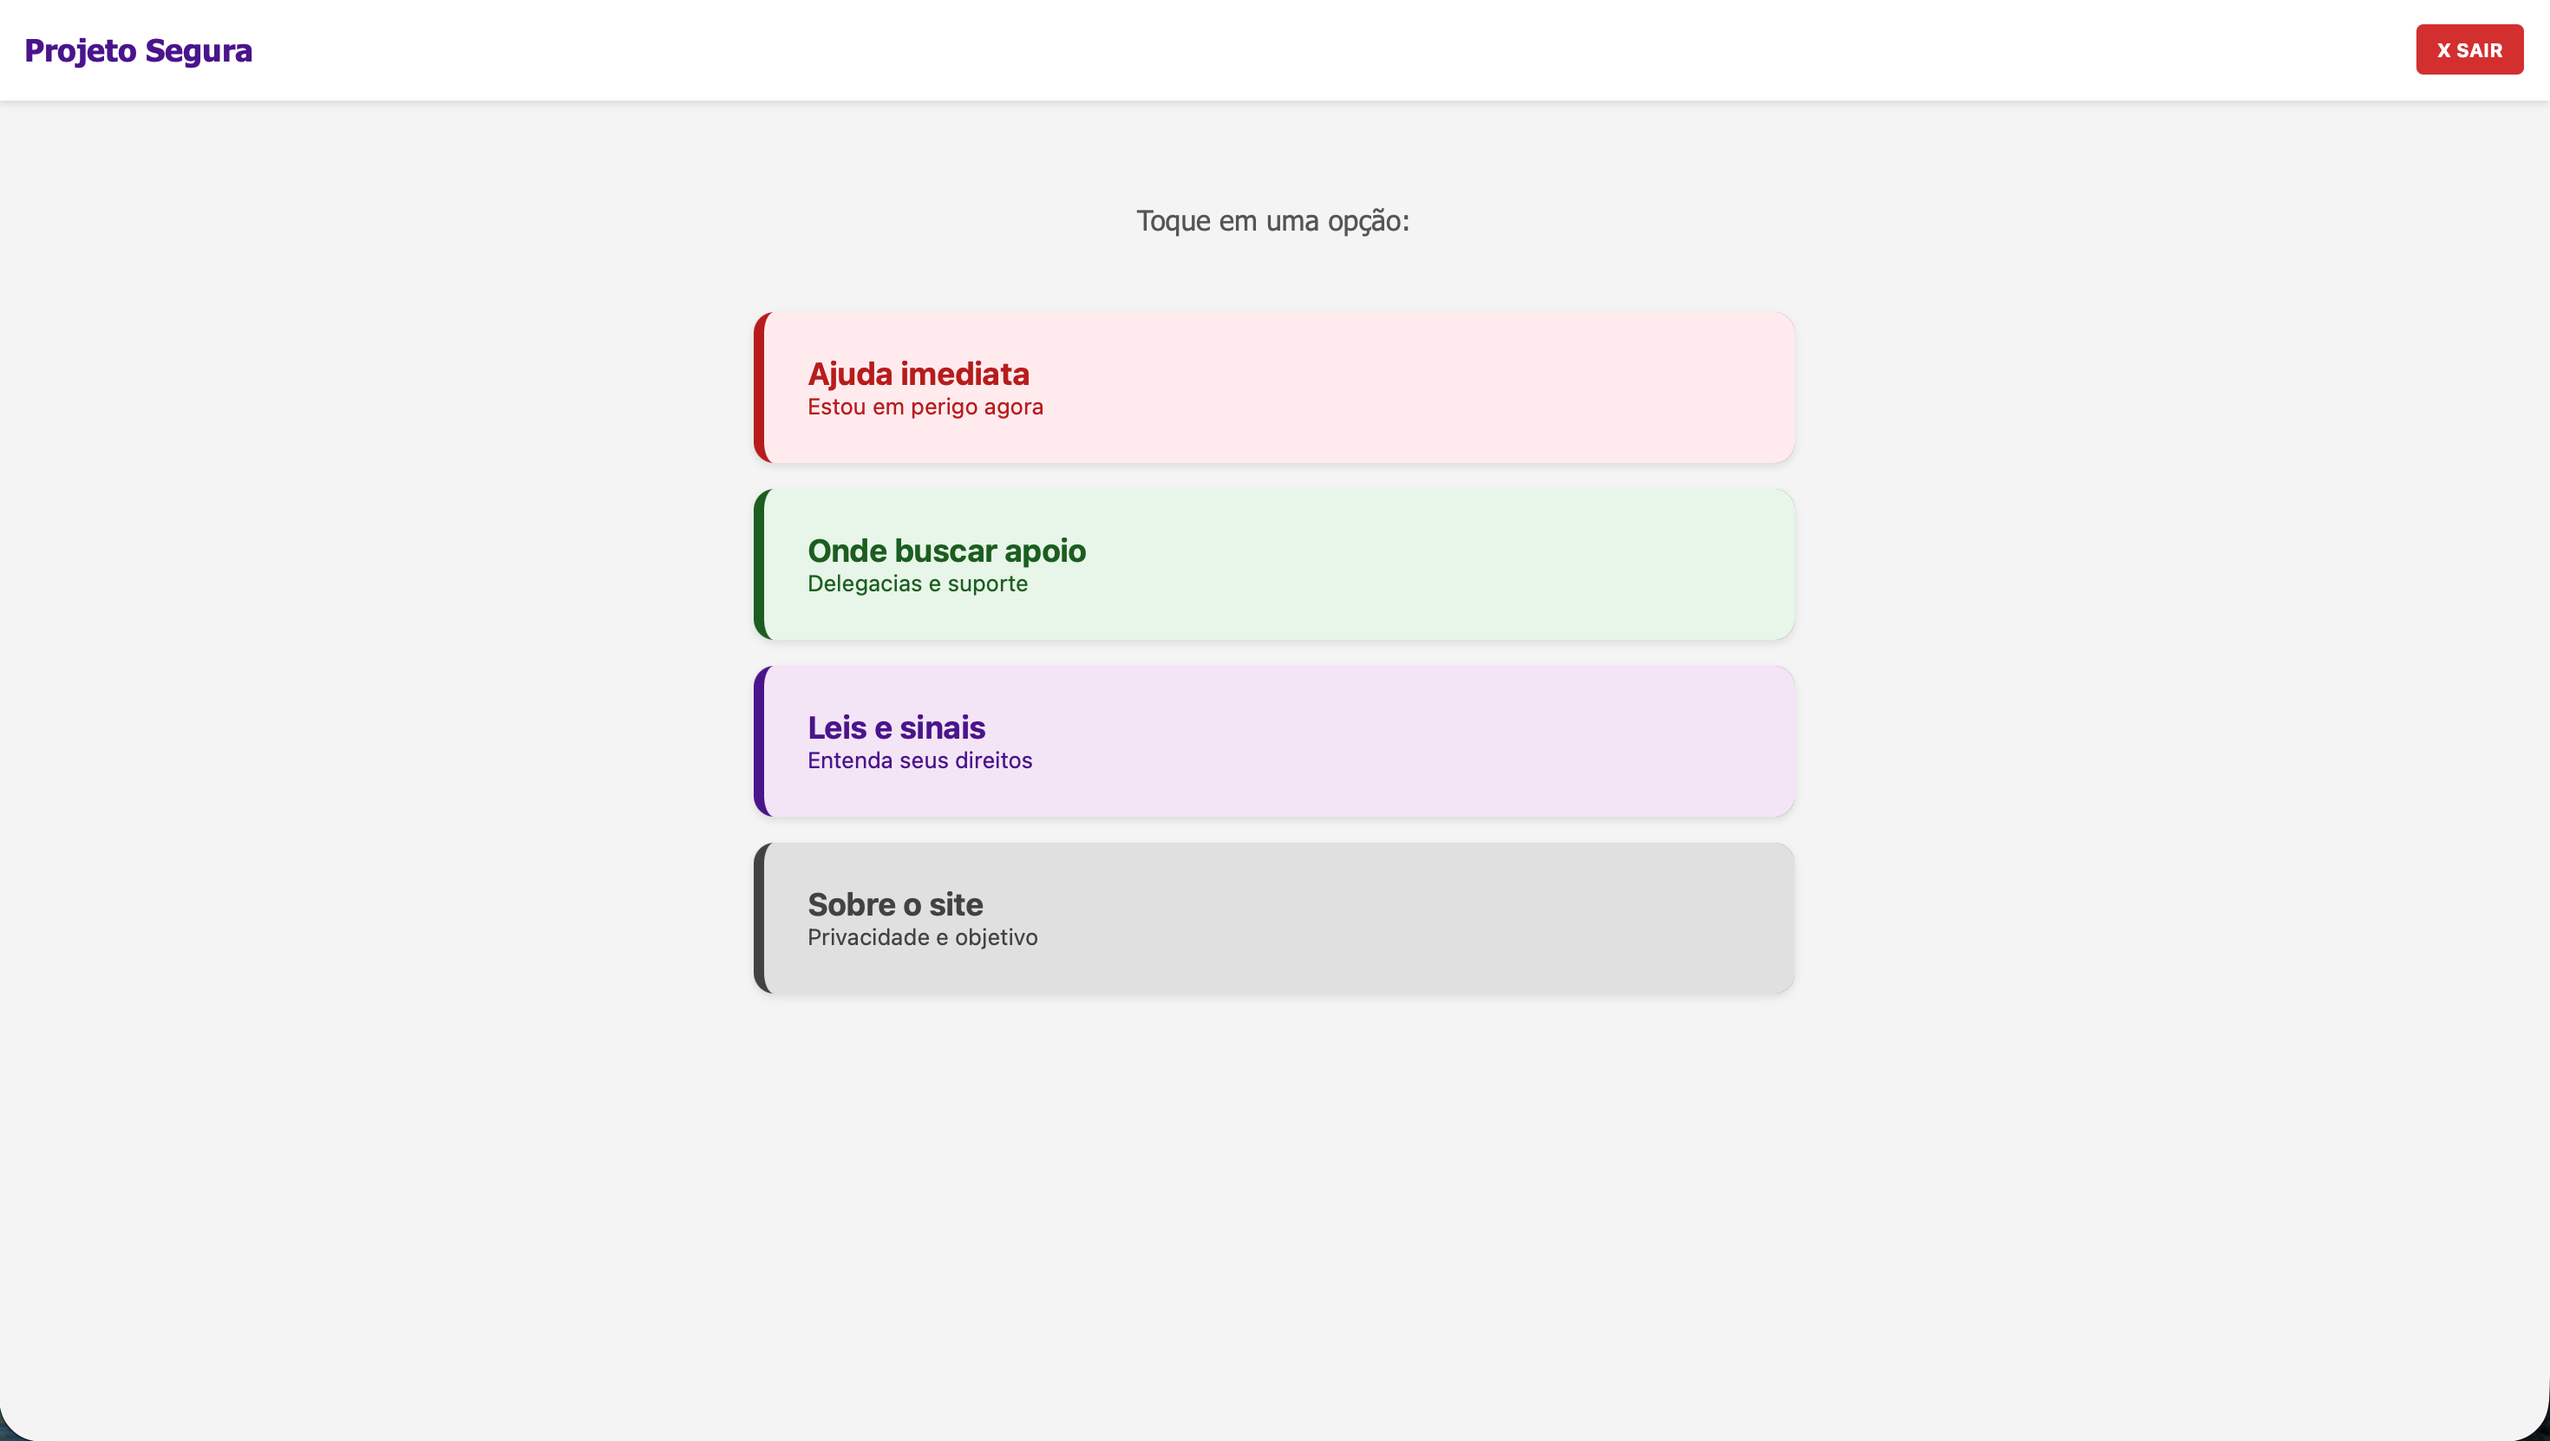
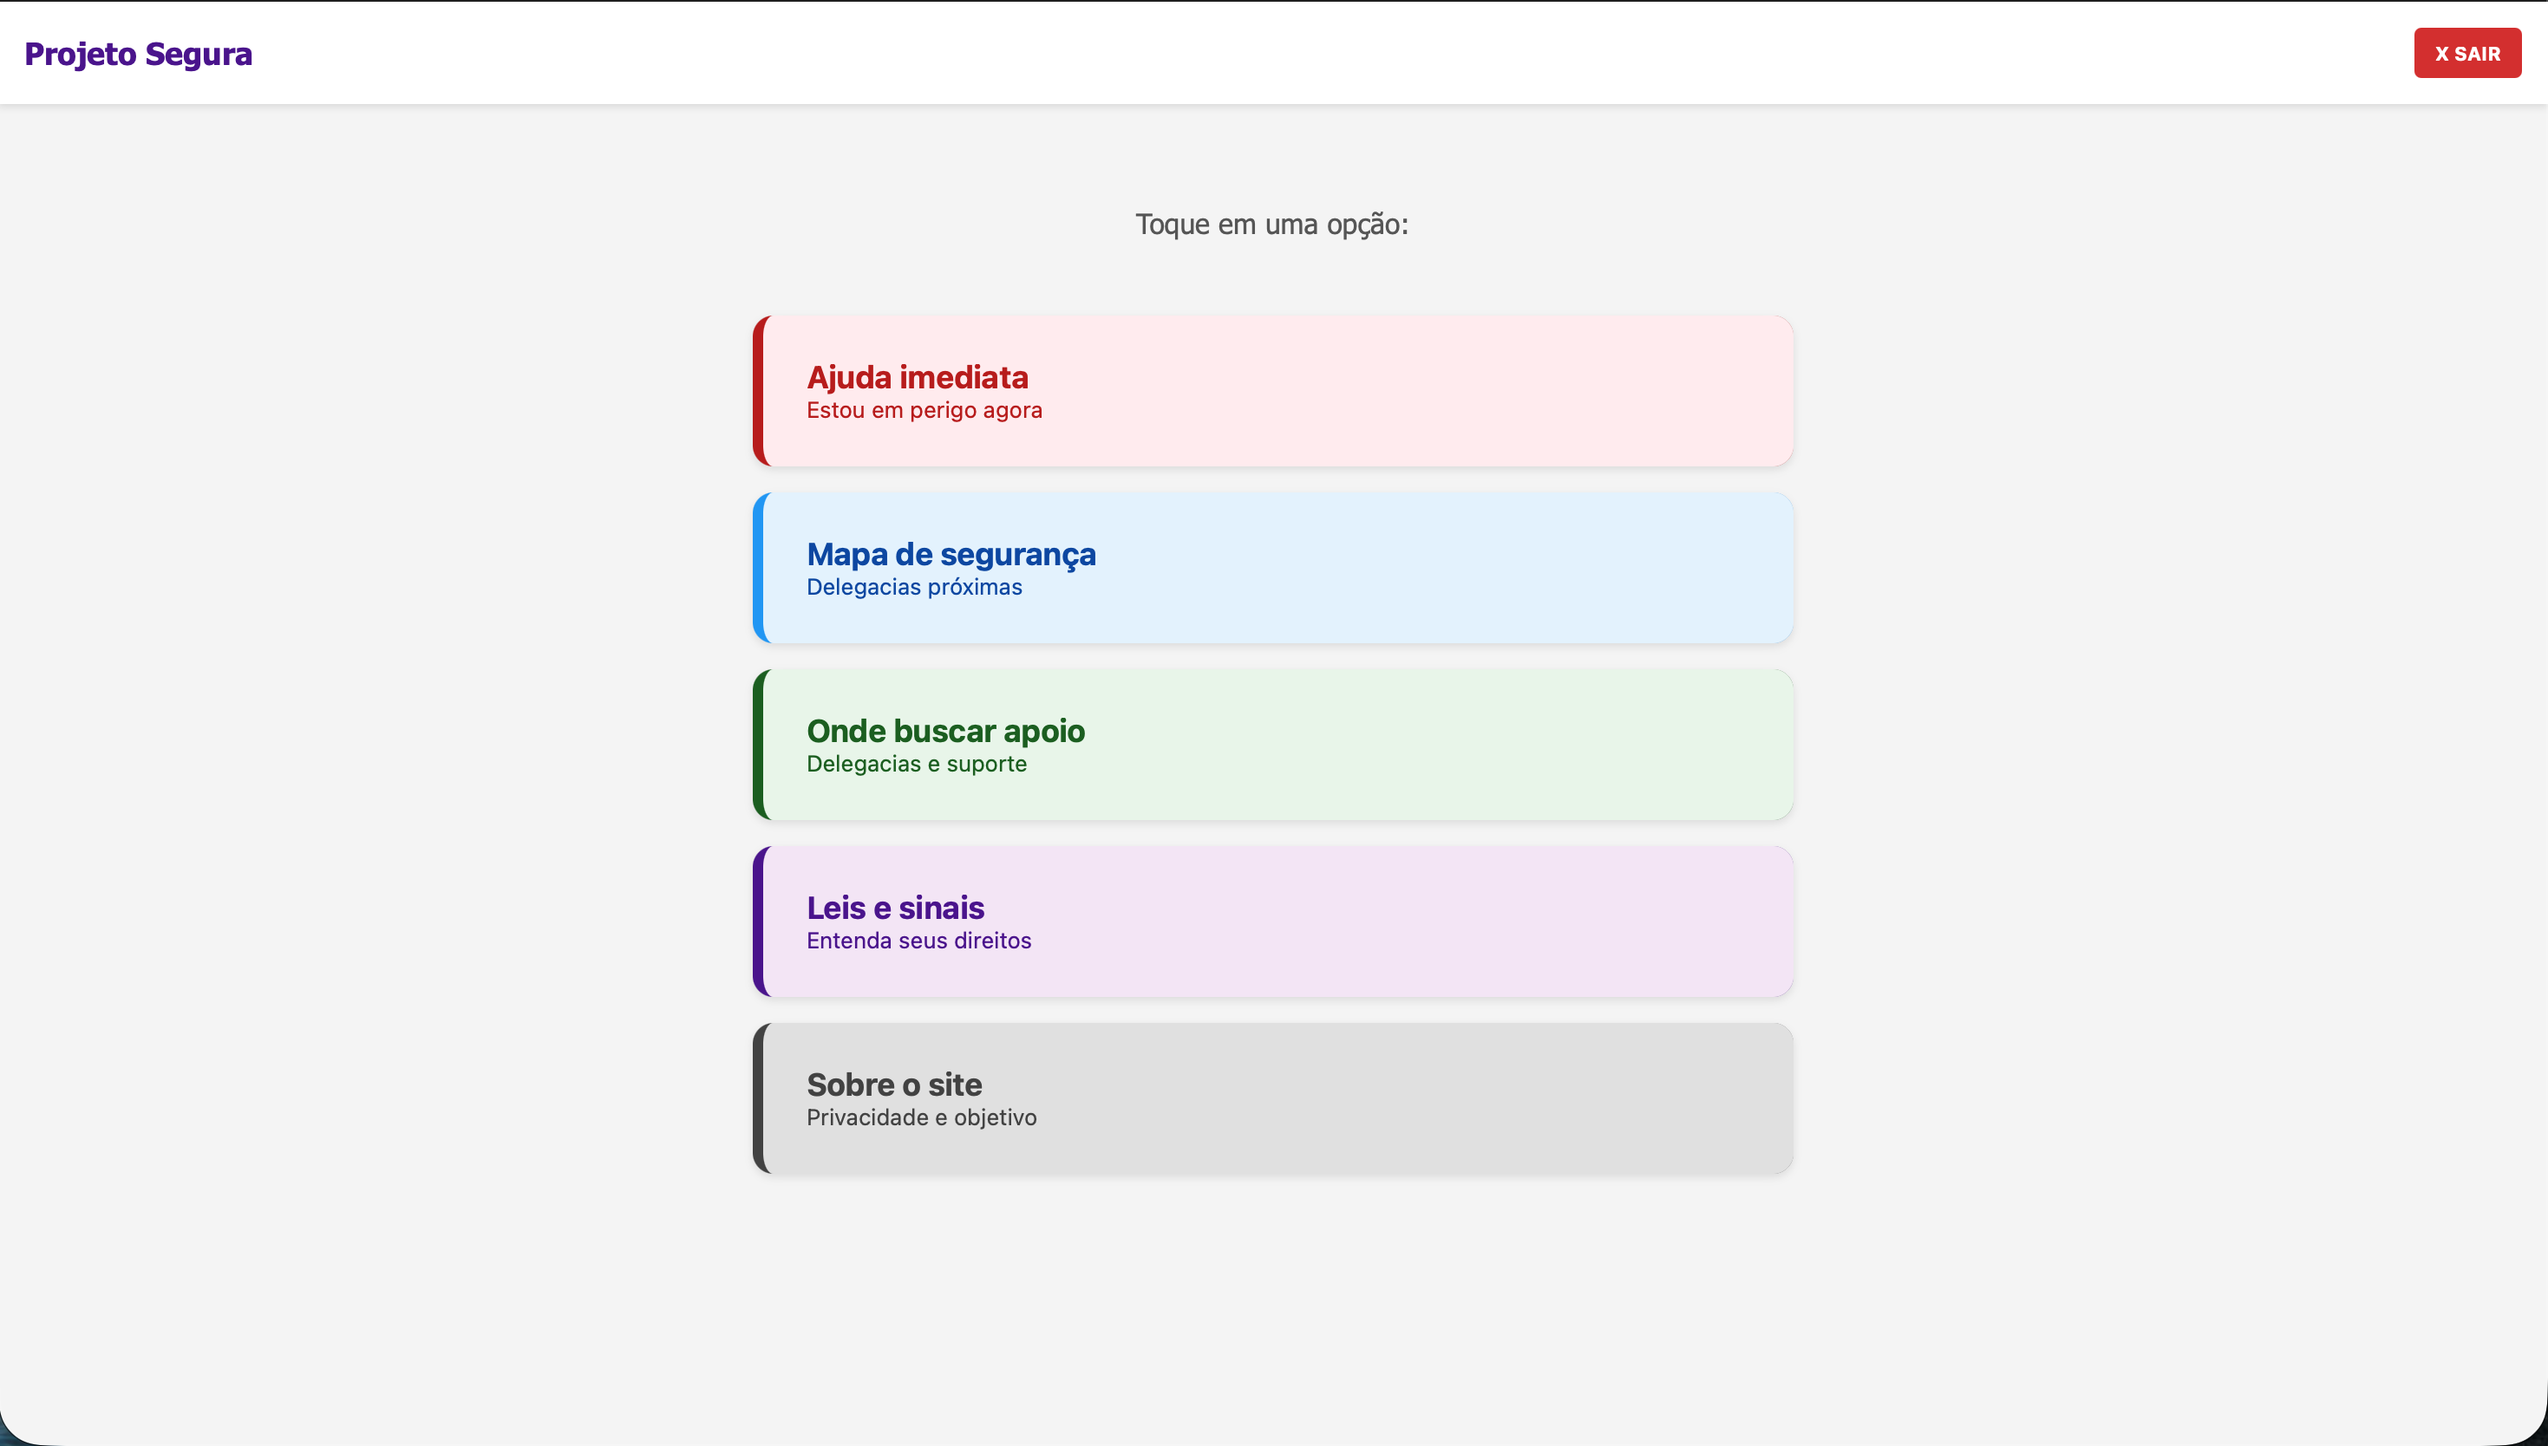
configurando tudo de novo

diff --git a/style.css b/style.css
@@ -8,15 +8,22 @@ body {
 }
 
 header {
+  position: fixed;
+  top: 0;
+  left: 0;
+  width: 100%;
+  height: 70px;
+
   background-color: #fff;
-  padding: 15px;
+  padding: 0 20px;
   box-shadow: 0 2px 4px rgba(0, 0, 0, 0.1);
+
   display: flex;
   justify-content: space-between;
   align-items: center;
-  position: sticky;
-  top: 0;
-  z-index: 100;
+
+  z-index: 3000;
+  box-sizing: border-box;
 }
 
 .logo {
@@ -33,12 +40,15 @@ header {
   border-radius: 4px;
   font-weight: bold;
   cursor: pointer;
+  font-size: 14px;
 }
 
 .container {
   max-width: 600px;
   margin: 0 auto;
   padding: 20px;
+
+  padding-top: 90px;
   padding-bottom: 80px;
 }
 
@@ -47,6 +57,23 @@ header {
   flex-direction: column;
   gap: 15px;
   margin-top: 20px;
+}
+
+.btn-mapa {
+  background-color: #e3f2fd;
+  color: #0d47a1;
+  border-left: 6px solid #2196f3;
+}
+
+.descricao-btn {
+  font-size: 13px;
+  font-weight: normal;
+}
+
+.texto-instrucao {
+  text-align: center;
+  margin-bottom: 10px;
+  color: #555;
 }
 
 .btn-menu {
@@ -62,6 +89,8 @@ header {
   align-items: center;
   gap: 15px;
   box-shadow: 0 2px 5px rgba(0, 0, 0, 0.1);
+  width: 100%;
+  box-sizing: border-box;
 }
 
 .btn-menu:active {
@@ -87,10 +116,6 @@ header {
   background-color: #e0e0e0;
   color: #424242;
   border-left: 6px solid #424242;
-}
-
-.icone {
-  font-size: 24px;
 }
 
 .tela-conteudo {
@@ -128,7 +153,6 @@ h3 {
   margin-top: 25px;
   font-size: 1.1rem;
 }
-
 .box-info {
   background-color: #fafafa;
   border-left: 4px solid #6a1b9a;
@@ -136,7 +160,6 @@ h3 {
   margin-bottom: 15px;
   border-radius: 0 8px 8px 0;
 }
-
 .lista-sinais li {
   margin-bottom: 8px;
 }
@@ -144,7 +167,6 @@ h3 {
   font-weight: bold;
   color: #4a148c;
 }
-
 .destaque-tel {
   display: block;
   background-color: #d32f2f;
@@ -171,9 +193,12 @@ h3 {
 
 #tela-mapa {
   padding: 0 !important;
-  height: 100vh;
+  position: fixed !important;
+  top: 70px;
+  left: 0;
   width: 100%;
-  position: relative;
+  height: calc(100vh - 70px);
+  z-index: 2000;
   display: none;
 }
 
@@ -185,10 +210,11 @@ h3 {
 .btn-voltar-mapa {
   position: absolute;
   top: 20px;
-  left: 70px;
-  z-index: 2000;
 
-  padding: 10px 20px;
+  left: 80px;
+
+  z-index: 2000;
+  padding: 10px 25px;
   background: white;
   color: #333;
   border: none;
@@ -198,7 +224,6 @@ h3 {
   cursor: pointer;
   transition: transform 0.2s;
 }
-
 .btn-voltar-mapa:active {
   transform: scale(0.95);
 }
@@ -209,14 +234,51 @@ h3 {
   left: 50%;
   transform: translateX(-50%);
   background: white;
-  padding: 10px 20px;
-  border-radius: 20px;
-
+  padding: 12px 25px;
+  border-radius: 30px;
   display: flex;
-  gap: 15px;
-
+  gap: 20px;
   font-weight: bold;
   font-size: 0.9rem;
   box-shadow: 0 2px 5px rgba(0, 0, 0, 0.3);
   z-index: 2000;
+  white-space: nowrap;
+}
+
+@media (max-width: 768px) {
+  header {
+    height: 60px;
+    padding: 0 15px;
+  }
+
+  .logo {
+    font-size: 1rem;
+  }
+
+  .container {
+    padding-top: 80px;
+  }
+
+  #tela-mapa {
+    top: 60px;
+    height: calc(100vh - 60px);
+  }
+
+  .btn-voltar-mapa {
+    left: 70px;
+    top: 15px;
+    padding: 8px 15px;
+    font-size: 0.9rem;
+  }
+
+  #legenda-mapa {
+    bottom: 20px;
+    width: 90%;
+    justify-content: center;
+    gap: 10px;
+    font-size: 0.75rem;
+    padding: 10px;
+    flex-wrap: wrap;
+    white-space: normal;
+  }
 }

diff --git a/index.html b/index.html
@@ -29,42 +29,28 @@
 
     <main class="container">
       <div id="menu-principal">
-        <div style="text-align: center; margin-bottom: 10px; color: #555">
+        <div class="texto-instrucao">
           <p>Toque em uma opção:</p>
         </div>
 
         <button class="btn-menu btn-ajuda" onclick="abrirTela('tela-ajuda')">
           <div>
             <div>Ajuda imediata</div>
-            <div style="font-size: 13px; font-weight: normal">
-              Estou em perigo agora
-            </div>
+            <div class="descricao-btn">Estou em perigo agora</div>
           </div>
         </button>
 
-        <button
-          class="btn-menu btn-apoio"
-          style="
-            border-left-color: #2196f3;
-            background-color: #e3f2fd;
-            color: #0d47a1;
-          "
-          onclick="iniciarMapa()"
-        >
+        <button class="btn-menu btn-mapa" onclick="iniciarMapa()">
           <div>
             <div>Mapa de segurança</div>
-            <div style="font-size: 13px; font-weight: normal">
-              Delegacias próximas
-            </div>
+            <div class="descricao-btn">Delegacias próximas</div>
           </div>
         </button>
 
         <button class="btn-menu btn-apoio" onclick="abrirTela('tela-apoio')">
           <div>
             <div>Onde buscar apoio</div>
-            <div style="font-size: 13px; font-weight: normal">
-              Delegacias e suporte
-            </div>
+            <div class="descricao-btn">Delegacias e suporte</div>
           </div>
         </button>
 
@@ -74,18 +60,14 @@
         >
           <div>
             <div>Leis e sinais</div>
-            <div style="font-size: 13px; font-weight: normal">
-              Entenda seus direitos
-            </div>
+            <div class="descricao-btn">Entenda seus direitos</div>
           </div>
         </button>
 
         <button class="btn-menu btn-sobre" onclick="abrirTela('tela-sobre')">
           <div>
             <div>Sobre o site</div>
-            <div style="font-size: 13px; font-weight: normal">
-              Privacidade e objetivo
-            </div>
+            <div class="descricao-btn">Privacidade e objetivo</div>
           </div>
         </button>
       </div>
